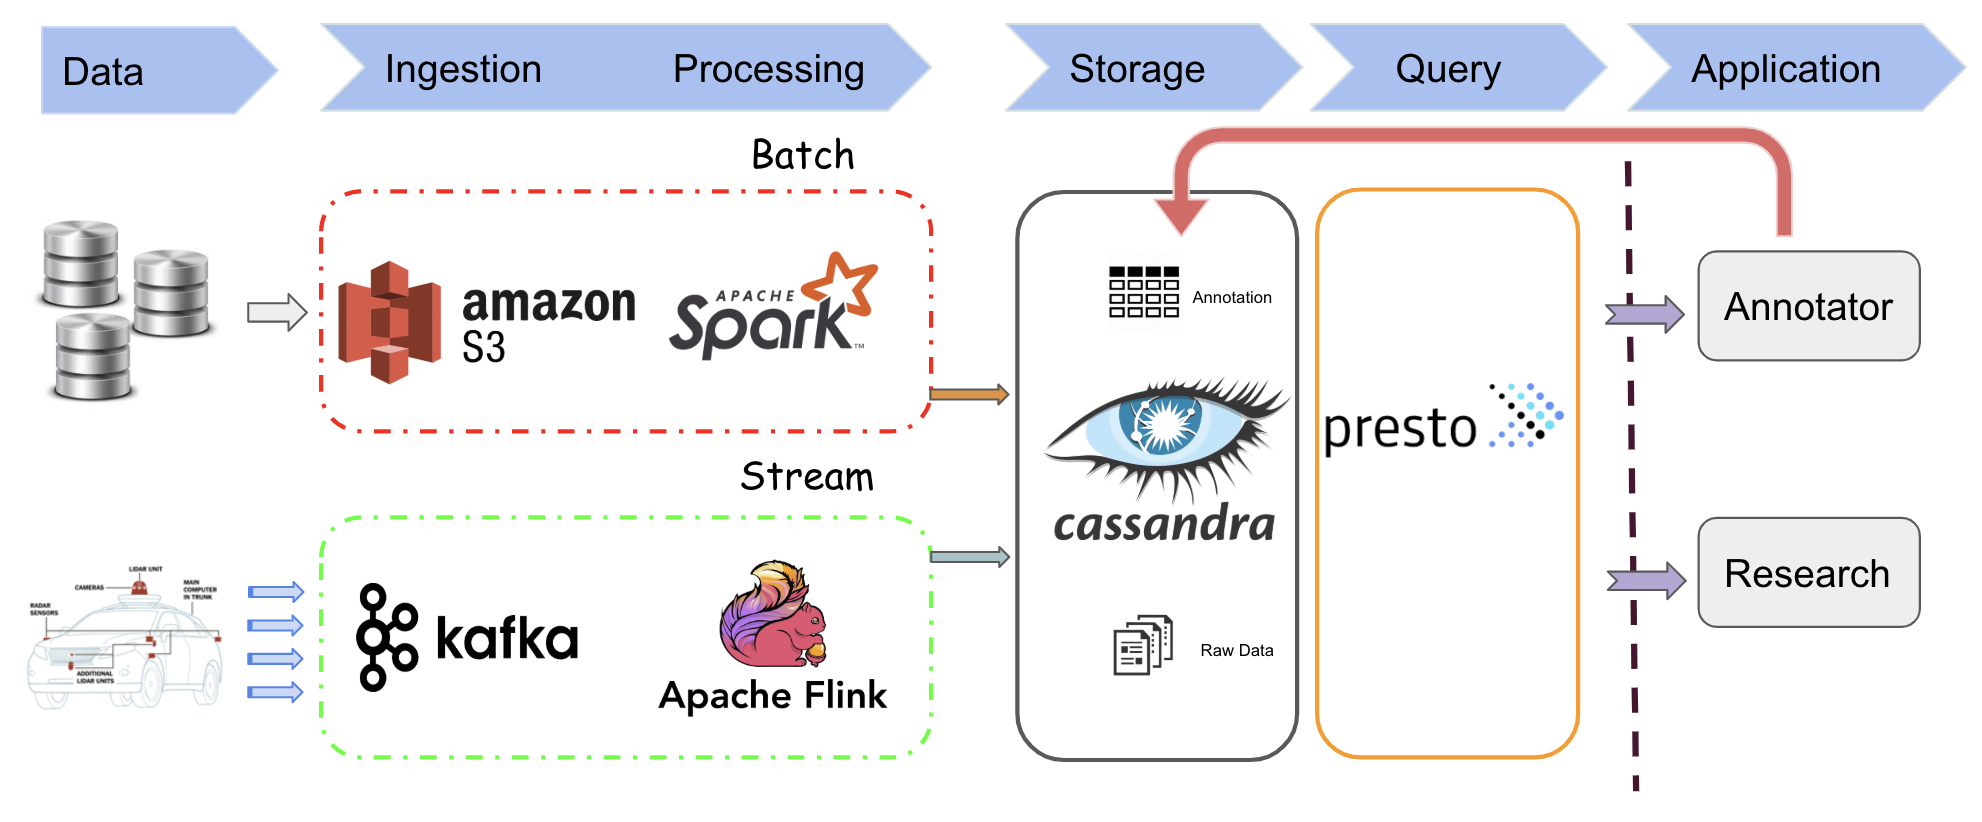
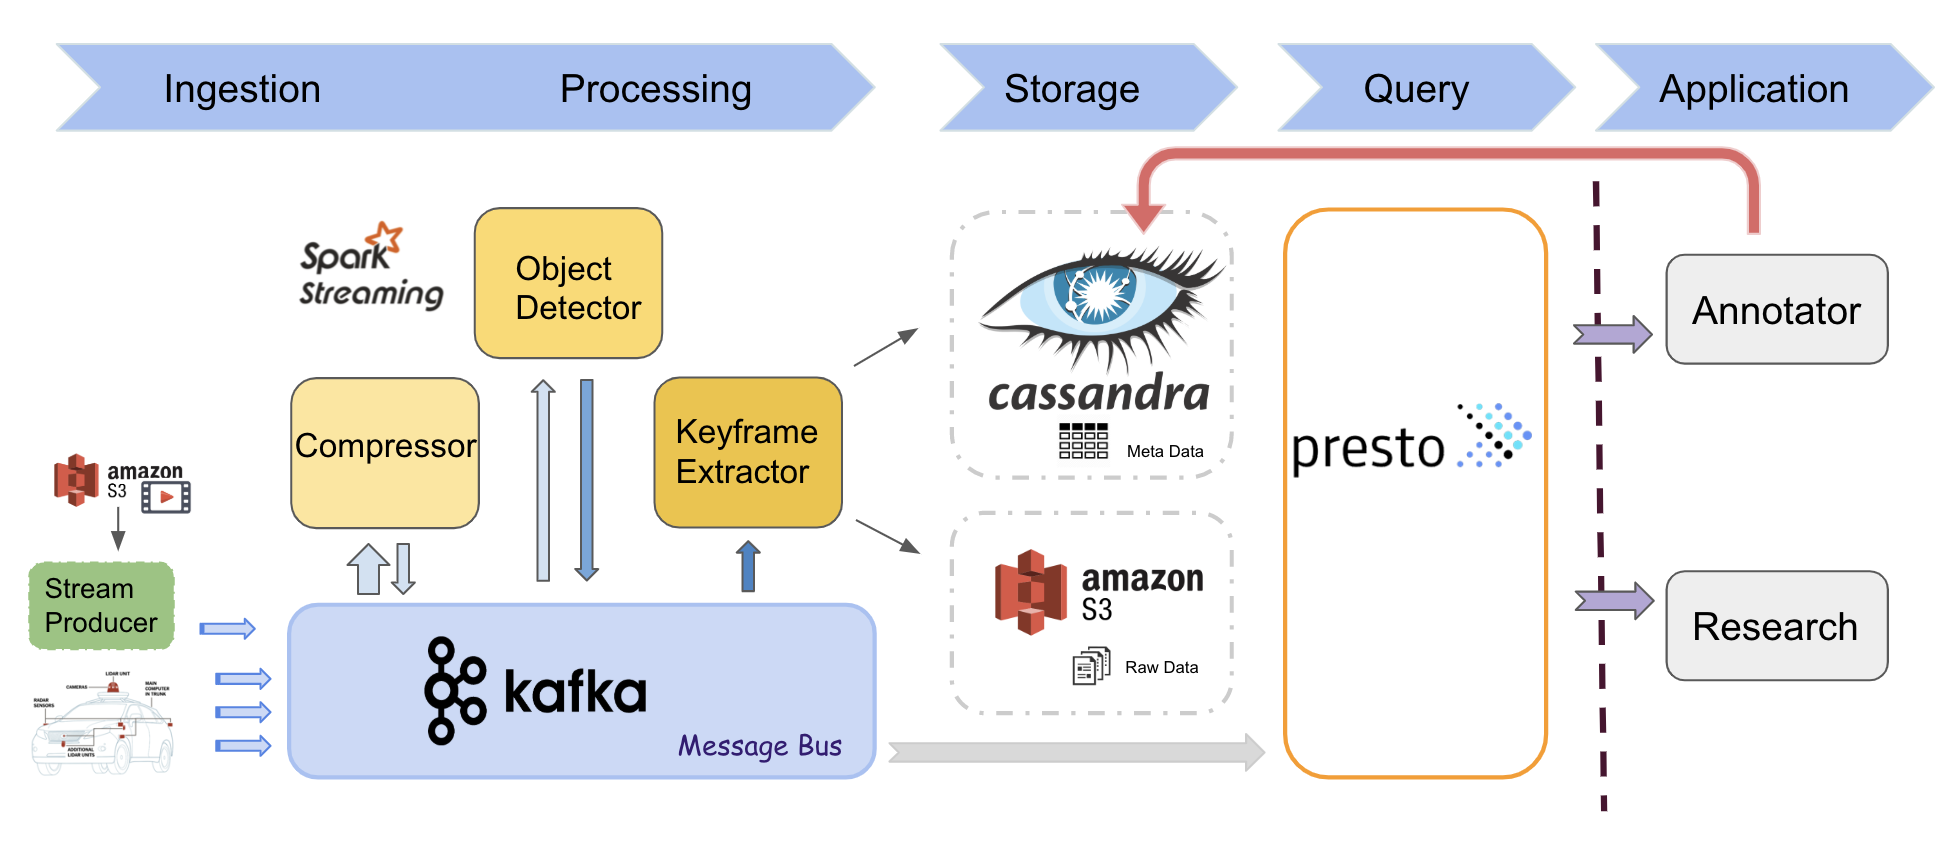
change readme, sample data modeling in cassandra, demo in process

diff --git a/demo/video_producer.py b/demo/video_producer.py
@@ -1,0 +1,41 @@
+import sys
+# import time
+import cv2
+from kafka import KafkaProducer
+
+
+topic = "raw_video_stream"
+
+
+def publish_video(video_file):
+
+    # Start up producer
+    producer = KafkaProducer(bootstrap_servers='localhost:9092')
+
+    # Open video file
+    video = cv2.VideoCapture(video_file)
+    print('Video FPS:' + str(video.get(cv2.CAP_PROP_FPS)))
+
+    print("publishing video...")
+
+    while(video.isOpened()):
+        success, frame = video.read()
+        if not success:
+            print("bad read!")
+            break
+        ret, buffer = cv2.imencode('.jpg', frame)
+
+        producer.send(topic, buffer.tobytes())
+        # time.sleep(0.01)
+    video.release()
+    print('publish complete')
+
+
+if __name__ == '__main__':
+    if(len(sys.argv) > 1):
+        # Short test sample:
+        # http://s3-us-west-2.amazonaws.com/dashcash/testdata/Videos/challenge.mp4
+        video_path = sys.argv[1]
+        publish_video(video_path)
+    else:
+        print("add the video file address")

diff --git a/demo/sampling.py b/demo/sampling.py
@@ -1,0 +1,10 @@
+# A simple sampling to decrease FPS
+import datetime
+from kafka import KafkaConsumer
+import sys
+import cv2
+from kafka import KafkaProducer
+
+
+intopic = "raw_video_stream"
+outtopic = "compressed_stream"

diff --git a/README.md b/README.md
@@ -1,6 +1,6 @@
 # DASHCASH/CarsMemory
 
-## Background
+## Introduction
 
 <img src="./images/chances.png" height="200" width="400" />
 
@@ -11,14 +11,8 @@ Autonomous vehicles keep generating a large amount of diverse sensor data, accom
 * **Data Management**: How to support scene selection for research teams?
 * **Data Labeling**: How to decrease the load for manual annotation?
 
-In a word, there are tons of data engineering functions in demand within this data ecosystem.
+Our project is a data engineering system ingests real-time streaming data from common cars' driving recorders, then uses object detection model to auto-annotate the video and extract keyframes that are significant for a manual check. This platform could greatly speed up the labeling process, and with multiple metadata generated during different stages, we could manage collected data's diversity and quality, then make it a data ecosystem to support the data demand of self-driving car field's development.
 
-
-### Business Value
-<img src="./images/business.png" height="200" width="400" />
-According to the business value analysis offered by our PM, our platform's main goal is to server self-driving research organization's requirement of high quality annotated data.
-
-So the prior function of this data engineering project is to **speed up manual data labeling** and implement related architecture for **data management**.
 
 ## Engineering
 
@@ -38,78 +32,11 @@ There are sufficient datasets to support test for batch processing and streaming
   * Size: ~ 30 GB keyframes for 20 hours driving
   * Directly download
 
-### How to realized the prior functions?
-
-**Speed up manual data labeling:**
-
-After data ingestion:
-1. Use build-in machine learning models to do image processing like "object detection" and get the annotation.
-2. Along with the time series, we try to find closest keyframes that has difference on annotation.
-3. (Advance) Add fusion function with LIDAR, RADAR data to improve the precision of object detection, which need synchronize and join of multiple data source.
-
-During the manual annotating period:
-1. Only keyframes need to be check by human, and if one object's annotation was changed, all related annotations in later frames that have this object should change.
-2. (Advance) We try to make the annotation period more like a game, using tween animation to make the change between keyframes more smooth, thus need quick update on annotations.
-
-**For data management:**
-
-* Store more information about each video, like whether condition, traffic load, etc.
-
 ### Tech Stack
 
-(May change after more specified comparison)
 ![Techstack](./images/techstack.png)
 
 ### Engineering Challenges
 
 * Ingestion and join data of different type
-* Computer vision and multi-sensor fusion in processing
-* Management of media data with various annotation
-* Need to cut video (from batch and stream) into piece and take care the storage.
-
-## MVP and more
-
-**V0.1** Batch processing + Storage + Query engine + Annotator Loop
-
-**V0.2** + Streaming processing (no fusion)
-
-**V0.3** + Streaming processing (with fusion)
-
-**V1.0** + More classification to support scene selection to get datasets for research use.
-
-
----
-
-**Then we consider more functions based on these questions if we have time left:**
-
-Q1: What if some of the user upload bad data.
-
-**V1.1** + Add a detector and filter before processing to clean unqualified data.
-
-Q2: How to differentiate the values of data?
-
-A2: We could emphasis those data in special scene, and those data have more false object detection by build-in model.
-
-Q3: Could we make better use of the annotator feedback?
-
-A3: We may also record the precision and recall rate of manual annotation to get a report to detect the build-in model's weakness in terms of driving scene.
-
-Q4: How to simulate manual annotator?
-
-A4: We use a worse ML model as the build-in model for processing, then use a better model as annotator to do scale up the whole pipeline. If we were using annotated dataset to test, we could just use the right annotation to compare.
-
-**V1.2** + Simulated manual annotator at the application
-
-**V1.3** + Record and analysis the feedback to evaluate the build-in model
-
-**V1.4** + Add value evaluation after processing
-
-Q5: How to eliminate the data redundancy?
-
-**V1.5** + Add one layer between value evaluation module and storage layer to filter those common data that current data are good at.
-
-Q6: Could we try to refine the build-in model like in a research domain?
-
-**V2.0** + Make it more flexible to train, test and set the build-in model.
-
-**V3.0** + Privacy Protection
+* Management of media data with various meta-data
